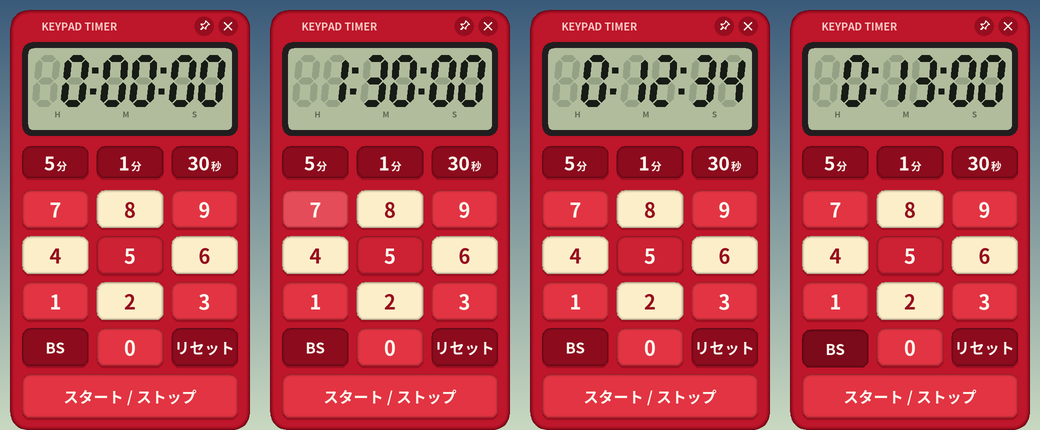
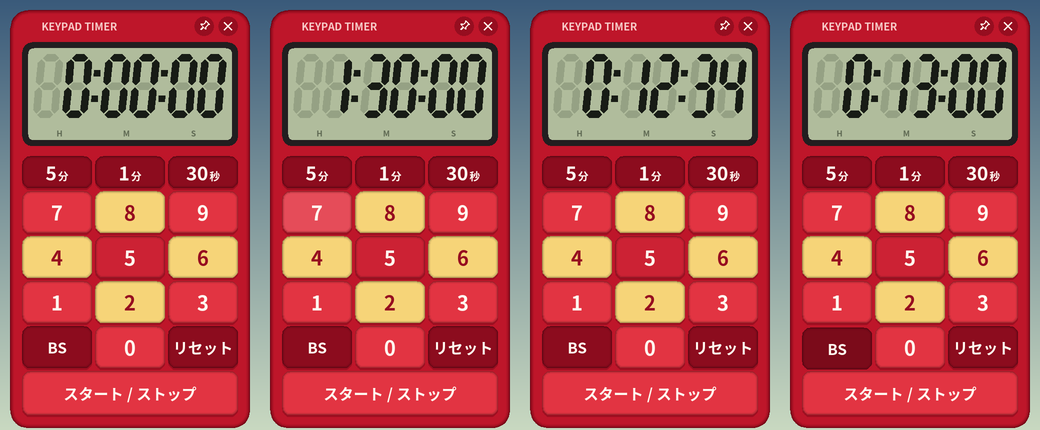
v0.4.2: larger digits with H/M/S along the bottom, golden 2/4/6/8, keys almost touching

diff --git a/src/main.c b/src/main.c
@@ -14,8 +14,8 @@
 
 #define APPNAME L"キーパッドタイマー"
 #define W_LOG 240   /* logical size @96 dpi */
-#define H_LOG 420
-#define H_COMPACT 138   /* compact mode: title bar + display only */
+#define H_LOG 418
+#define H_COMPACT 148   /* compact mode: title bar + display only */
 #define ARGB(a, r, g, b) ((ARGB)(((DWORD)(a) << 24) | ((DWORD)(r) << 16) | ((DWORD)(g) << 8) | (DWORD)(b)))
 
 /* ---------- buttons ---------- */
@@ -25,9 +25,9 @@ static RF gBtn[B_COUNT];
 
 static void Layout(void)
 {
-    const float m = 12, gap = 8, cw = (W_LOG - 2 * m - 2 * gap) / 3, rh = 38, y = 180;
+    const float m = 12, gap = 3, cw = (W_LOG - 2 * m - 2 * gap) / 3, rh = 42, y = 181;   /* keys almost touch */
     int i;
-    for (i = 0; i < 3; i++) gBtn[B_ADD5 + i] = (RF){ m + i * (cw + gap), 136, cw, 32 };
+    for (i = 0; i < 3; i++) gBtn[B_ADD5 + i] = (RF){ m + i * (cw + gap), 146, cw, 32 };
     for (i = 1; i <= 9; i++)                     /* 7 8 9 / 4 5 6 / 1 2 3 */
         gBtn[i] = (RF){ m + (i - 1) % 3 * (cw + gap), y + (2 - (i - 1) / 3) * (rh + gap), cw, rh };
     gBtn[B_BS]    = (RF){ m, y + 3 * (rh + gap), cw, rh };   /* BS | 0 | リセット */
@@ -36,7 +36,7 @@ static void Layout(void)
     gBtn[B_START] = (RF){ m, y + 4 * (rh + gap), W_LOG - 2 * m, 44 };
     gBtn[B_PIN]   = (RF){ W_LOG - 56, 6, 20, 20 };
     gBtn[B_CLOSE] = (RF){ W_LOG - 32, 6, 20, 20 };
-    gBtn[B_LCD]   = (RF){ 12, 32, W_LOG - 24, 94 };   /* double-click: compact mode */
+    gBtn[B_LCD]   = (RF){ 12, 32, W_LOG - 24, 104 };   /* double-click: compact mode */
 }
 
 /* ---------- state ---------- */
@@ -211,19 +211,19 @@ static void Digit(GpGraphics *g, GpBrush *on, GpBrush *off, int d, float x, floa
 static void DrawLcd(GpGraphics *g, long long now)
 {
     static const wchar_t *cap[3] = { L"H", L"M", L"S" };
-    const float dw = 24.5f, dh = 52, th = 7, gap = 4.4f, colw = 10.5f, y = 45;
+    const float dw = 25.5f, dh = 64, th = 7.5f, gap = 3.6f, colw = 9, y = 44;
     int s = tl_display(&gT, now), dig[6], i, lit = !(gT.st == TL_ALARM && !gBlinkOn), colon = lit && tl_colon_on(&gT, now);
-    float x = 21, cs = 6.2f;
+    float x = 22, cs = 6.8f;
     GpSolidFill *on, *off;
-    FillRRc(g, (RF){ 12, 32, W_LOG - 24, 94 }, 10, ARGB(255, 34, 30, 32));     /* bezel */
-    FillRRc(g, (RF){ 18, 38, W_LOG - 36, 82 }, 6, ARGB(255, 176, 188, 156));   /* panel */
+    FillRRc(g, (RF){ 12, 32, W_LOG - 24, 104 }, 10, ARGB(255, 34, 30, 32));     /* bezel */
+    FillRRc(g, (RF){ 18, 38, W_LOG - 36, 92 }, 6, ARGB(255, 176, 188, 156));   /* panel */
     GdipCreateSolidFill(ARGB(255, 24, 28, 22), &on);
     GdipCreateSolidFill(ARGB(46, 30, 40, 24), &off);
     dig[0] = s / 36000 ? s / 36000 : -1; dig[1] = s / 3600 % 10;   /* H H : M M : S S */
     dig[2] = s / 600 % 6; dig[3] = s / 60 % 10;
     dig[4] = s % 60 / 10; dig[5] = s % 10;
-    for (i = 0; i < 3; i++)   /* H / M / S under each digit pair */
-        Text(g, cap[i], (RF){ x + i * (2 * (dw + gap) + colw), y + dh, 2 * dw + gap, 14 }, 8, ARGB(150, 40, 50, 34), 0);
+    for (i = 0; i < 3; i++)   /* H / M / S along the bottom of the panel */
+        Text(g, cap[i], (RF){ x + i * (2 * (dw + gap) + colw), 116, 2 * dw + gap, 14 }, 8, ARGB(150, 40, 50, 34), 0);
     for (i = 0; i < 6; i++) {
         Digit(g, (GpBrush *)on, (GpBrush *)off, lit ? dig[i] : -1, x, y, dw, dh, th);
         x += dw + gap;
@@ -282,7 +282,7 @@ static void DrawKey(GpGraphics *g, int id)
     static const wchar_t *lab[] = { L"5", L"1", L"30", L"BS", L"リセット", L"スタート / ストップ" };
     RF r = gBtn[id];
     int cream = id == 2 || id == 4 || id == 6 || id == 8;
-    ARGB fill = id >= B_ADD5 && id <= B_RESET ? ARGB(255, 140, 12, 30) : cream ? ARGB(255, 251, 238, 200)
+    ARGB fill = id >= B_ADD5 && id <= B_RESET ? ARGB(255, 140, 12, 30) : cream ? ARGB(255, 246, 212, 120)
               : id == 5 ? ARGB(255, 204, 34, 52) : ARGB(255, 226, 52, 66);
     ARGB ink = cream ? ARGB(255, 150, 14, 32) : ARGB(255, 255, 248, 240);
     wchar_t d[2] = { (wchar_t)(L'0' + id), 0 };
